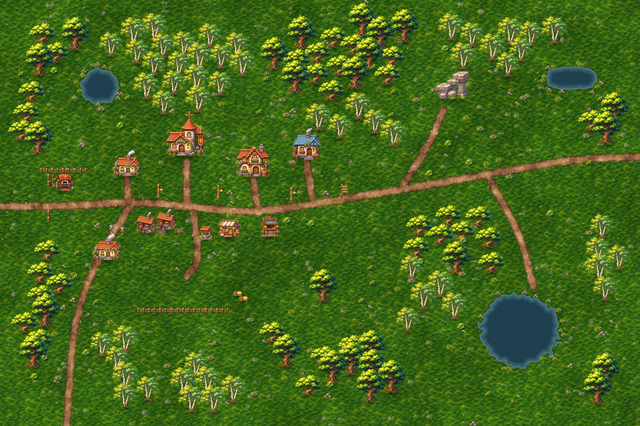
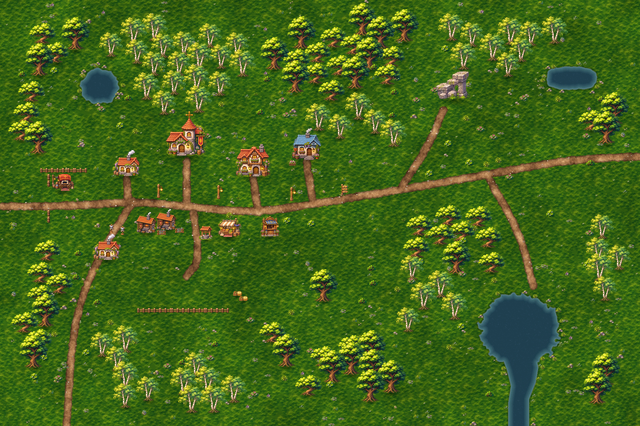
Connect Greenreach lake to waterfall and vary anchored cliff depths

diff --git a/tools/art/terrain.py b/tools/art/terrain.py
@@ -12,6 +12,14 @@ from pixel import Canvas, bayer, fbm, polyline_distance
 
 def _pond_mask(w: int, h: int, pond: dict, seed: int) -> np.ndarray:
     ys, xs = np.mgrid[0:h, 0:w].astype(np.float32) + 0.5
+    if "polygon" in pond:
+        # Authoritative shore shared with the HD renderer and runtime walls.
+        points = pond["polygon"]
+        inside = np.zeros((h, w), dtype=bool)
+        for (ax, ay), (bx, by) in zip(points, points[1:] + points[:1]):
+            if ay != by:
+                inside ^= ((ay > ys) != (by > ys)) & (xs < (bx-ax)*(ys-ay)/(by-ay)+ax)
+        return inside
     wobble = fbm(w, h, 14.0, seed, 2) - 0.5
     if "rect" in pond:
         x, y, rw, rh = pond["rect"]

diff --git a/tools/art/hd/ground.py b/tools/art/hd/ground.py
@@ -58,7 +58,10 @@ def _pond_field(terrain: dict, w: int, h: int, seed: int) -> np.ndarray:
     ys, xs = np.mgrid[0:sh, 0:sw].astype(np.float32) + 0.5
     wobble = pixel.fbm(sw, sh, 14.0, seed, 2) - 0.5
     for pond in terrain.get("ponds", []):
-        if "rect" in pond:
+        if "polygon" in pond:
+            from terrain import _pond_mask
+            mask |= _pond_mask(sw, sh, pond, seed)
+        elif "rect" in pond:
             x, y, rw, rh = pond["rect"]
             cx, cy, ax, ay = x + rw / 2, y + rh / 2, rw / 2, rh / 2
             d = np.abs((xs - cx) / ax) ** 3.2 + np.abs((ys - cy) / ay) ** 3.2

diff --git a/docs/AI_HANDOFF.md b/docs/AI_HANDOFF.md
@@ -1,8 +1,10 @@
 # AI HANDOFF — Skyward Tales
 
-Последнее обновление: 11 ноября 2026 года — композиция рощ, защита мостов и анимация роста.
+Последнее обновление: 11 ноября 2026 года — русло озера и нижний силуэт скал.
 
 **Утверждён один стиль:** подробный пиксельный лесной летающий остров по эталону владельца, чуть более приглушённый дневной свет и тёмный золотой UI. Не генерировать альтернативные варианты. См. docs/ART_DIRECTION.md.
+
+**Продолжение после остановки предыдущего ИИ:** добавлено `terrain.ponds[id=east_lake_outlet]`: полигон от озера (1556, 991) к устью EastLakeSource (1556, 1274). `polygon` — точный контур воды в HD и обычном генераторе, `rect` — его охватывающие габариты для перебора коллизий и защитных зон леса/сокровищ. В world.gd полигон проверяется до rect; препятствия идут с отступом 10 px от берега и входят в общий навигационный меш. Миникарта использует пересобранную землю. Узкое русло помечено fishable=false; рыбалка у озера сохранена. Местные игровые объекты и деревья не перемещены. `varied_cliff_depth=true` только у Greenreach меняет вертикальный масштаб существующих граней при неподвижной травяной опоре; это улучшение нижнего силуэта, не новая нарисованная скала и не завершённая переделка верхней геометрии острова. `cliff_outlet.gdshader` вырезает траву у устья; параметры берутся из экземпляра сцены, когда она задана. Новая проверка — tests/lake_outlet.gd. Локально прошли lake_outlet, island_style, waterfall_scene, look_polish, navigation, forest_presentation, settlement_growth на Godot 4.6.3; CI проверяет 4.7.2. Игровой кадр: docs/screenshots/greenreach_waterfall.png, 1920×1080, полдень. capture_island01.gd теперь освобождает игру и звук до выхода.
 
 **Первый остров, актуально:** tools/art/island01_polish.py вызывает forest_composition.compose: 17 заданных зон рощ, 114 деревьев вместо прежних 209. Препятствия, тропы, вода, NPC/сундуки/ресурсы, входы башни/штольни, верстаки и будущие участки settlement защищены от новых крон. terrain.tree_variants соответствует terrain.trees; runtime и миникарта используют одинаковые формы: 2 дуба + 2 берёзы. Предыдущая прямоугольная расчистка больше не является источником раскладки. Не возвращать случайное рассыпание деревьев. Проверка воспроизводимости и пиксельных опор — в генераторе ресурсов.
 

diff --git a/docs/ISLAND01_EDITING.md b/docs/ISLAND01_EDITING.md
@@ -44,3 +44,9 @@ python3 tools/art/island01_polish.py
 Подойдите к срубленному ресурсному дереву с саженцем: появится «E — посадить саженец». Посадка уменьшает оставшееся ожидание вдвое. Без посадки ресурсное дерево тоже восстанавливается по таймеру. Растения выращиваются из семян на грядках/в теплице поселения. Уже посаженные культуры продолжают расти по игровому времени, пока герой путешествует; закрытая игра не добавляет прошедшее реальное время. Добываемые каменные глыбы восстанавливаются сами. Декоративные деревья, цветы и скалы не являются ресурсными узлами.
 
 Базовые сроки деревьев, глыб и диких трав — data/gathering.json → kinds → respawn (секунды игрового времени). Сроки культур — Farm.SEEDS, в игровых днях; полив, улучшения и сезоны меняют их.
+
+## Русло озера и кромка скал
+
+В `data/regions.json → greenreach.terrain.ponds` запись `id: east_lake_outlet` задаёт русло через `polygon`. Тот же многоугольник используют обычная/HD-земля и препятствия воды; `rect` должен охватывать все его вершины. После изменения пересоберите остров. Устье текущего контура совпадает с EastLakeSource: x=1556, ширина 64, y=1274. Если переносите водопад или меняете ширину, согласуйте последние вершины русла и проверьте `tests/lake_outlet.gd`; передвижение источника в редакторе само не перестраивает землю. Рыбалка в узком русле отключена через `fishable: false`, озеро сохраняет рыбалку.
+
+`terrain.varied_cliff_depth: true` включает разную глубину существующих граней CliffRim. Их травяная опора остаётся на y=1280. В устье шейдер убирает поперечную травяную полосу, следуя позиции/ширине экземпляра водопада. Для остальных локаций настройка не включена. Это первый шаг к неровному силуэту: верхняя граница земли пока остаётся прямой.
